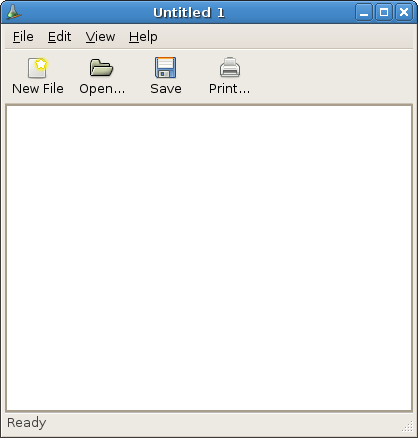
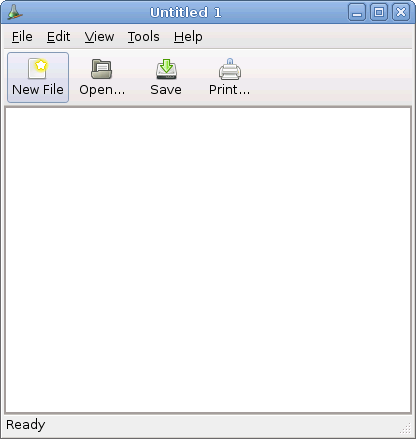
2008-08-27  Jean Brefort  <jean.brefort@normalesup.org> 	* autogen.sh: use gendocs. 	* gendocs: new script to update help files names. 	* libs/gcp/bond.h: API documentation work. 	* libs/gcp/document.h: ditto. 	* docs/help/paint/C/figures: updated screenshots.

Changed region(s): [[0.0, 0.1187, 1.0, 1.0], [0.0, 0.0, 1.0, 0.1187]]

diff --git a/libs/gcp/bond.h b/libs/gcp/bond.h
@@ -184,9 +184,18 @@ atomic positions.
 */
 	void Transform2D (gcu::Matrix2D& m, double x, double y);
 /*!
+@param x the x coordinate.
+@param y the x coordinate.
+
+Evaluates the distance from the point with coordinates \a x and \a y to the bond.
+The line segment joining the two atoms is used whatever the type and the order
+of the bond.
+@return the calculated distance in pm.
 */
 	double GetDist (double x, double y);
 /*!
+Tells that the bond has changed, and that the items representing it should be
+updated accordingly.
 */
 	void SetDirty ();
 /*!
@@ -210,12 +219,22 @@ gcp::SelStateUpdating, or gcp::SelStateErasing.
 */
 	void SetSelected (GtkWidget* w, int state);
 /*!
+@param w the GtkWidget inside which the bond will be displayed.
+
+Used to add a representation of the bond in the widget.
 */
 	void Add (GtkWidget* w) const;
 /*!
+Used to retrieve the y coordinate for alignment.
+@return y coordinate of the bond center.
 */
 	double GetYAlign ();
 /*!
+@param pBond a bond which might cross.
+
+The lines representing two bonds might cross. This method detects this
+condition.
+@return true if bonds cross, false otherwise.
 */
 	bool IsCrossing (Bond *pBond);
 /*!
@@ -228,12 +247,20 @@ This method is called to build a contextual menu for the atom.
 */
 	bool BuildContextualMenu (GtkUIManager *UIManager, Object *object, double x, double y);
 /*!
+Move the bond to the lowest position. It has an effect only for crossing bonds.
 */
 	void MoveToBack ();
 /*!
+Brings the bond to front. It has an effect only for crossing bonds.
 */
 	void BringToFront ();
 /*!
+@param property the property id as defined in objprops.h
+@param value the property value as a string
+
+Used when loading to set properties for the bond. this method supports
+GCU_PROP_BOND_TYPE and calls gcu::Bond::SetProperty() for other properties.
+@return true if the property could be set, or if the property is not relevant, false otherwise.
 */
 	bool SetProperty (unsigned property, char const *value);
 

diff --git a/libs/gcp/document.h b/libs/gcp/document.h
@@ -107,27 +107,33 @@ Empties a document and reinitialize it.
 */
 	View* GetView () {return m_pView;}
 /*!
-@param
-@param
+@param Mol an OpenBabel molecule to import.
 
+Imports a molecule using OpenBabel.
 */
-	void BuildBondList (std::list<Bond*>& BondList, gcu::Object const *obj) const;
 	bool ImportOB (OpenBabel::OBMol& Mol);
 /*!
-
+Exports the current file using OpenBabel. Only molecules will be exported.
 */
 	void ExportOB () const;
 /*!
+Saves the current file.
+*/
+	void Save () const;
+/*!
 @param
 
 */
-	void BuildAtomTable (std::map<std::string, unsigned>& AtomTable, gcu::Object const *obj, unsigned& index) const;
-	void Save () const;
 	virtual bool Load (xmlNodePtr);
 	const gchar* GetTitle () const;
 	void SetTitle (const gchar* title);
 	void SetLabel (const gchar* label);
 	const gchar* GetLabel () const;
+/*!
+@param
+@param
+
+*/
 	void SetFileName (std::string const &, const gchar *mime_type);
 	const gchar* GetFileName () {return m_filename;}
 	void DoPrint (GtkPrintOperation *print, GtkPrintContext *context) const;
@@ -200,6 +206,8 @@ of the residue.
 	gcu::Residue *CreateResidue (char const *name, char const *symbol, gcu::Molecule *molecule);
 
 private:
+	void BuildBondList (std::list<Bond*>& BondList, gcu::Object const *obj) const;
+	void BuildAtomTable (std::map<std::string, unsigned>& AtomTable, gcu::Object const *obj, unsigned& index) const;
 	void RemoveAtom (Atom* pAtom);
 	void RemoveBond (Bond* pBond);
 	void RemoveFragment (Fragment* pFragment);
